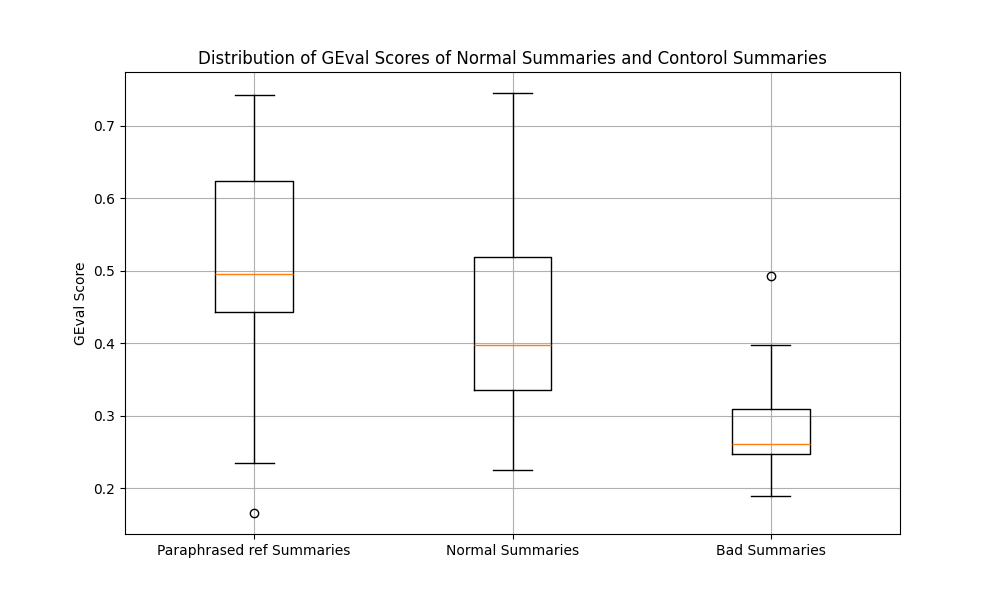
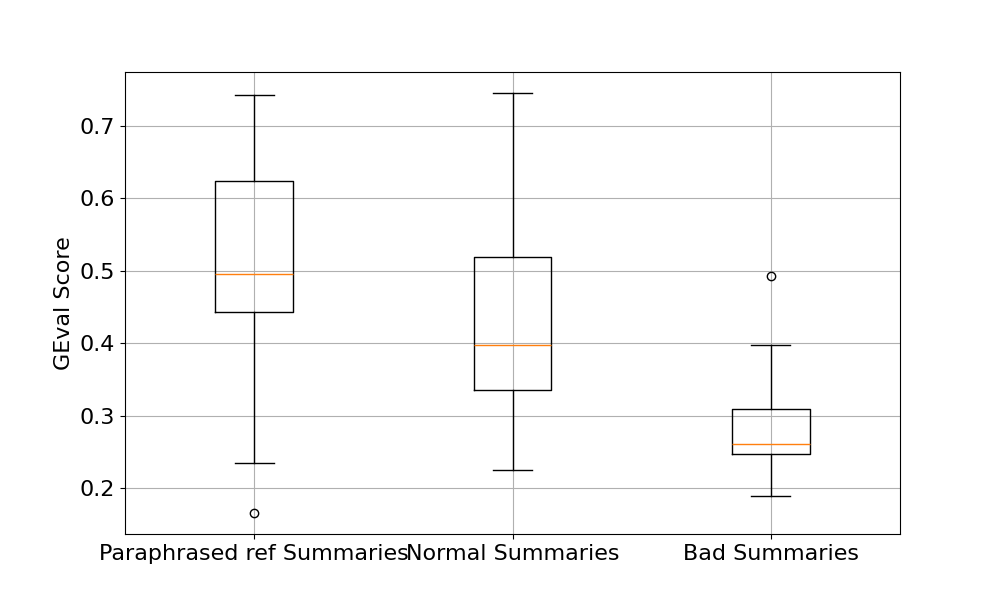
update EDA and results

diff --git a/EDA/EDA_v2.py b/EDA/EDA_v2.py
@@ -15,6 +15,7 @@ from huggingface_hub import login
 import re
 from datasets import DatasetDict
 import matplotlib.pyplot as plt
+import statistics
 
 # check toecker length of all data
 def len_article_details():
@@ -23,8 +24,12 @@ def len_article_details():
         token_lengths = [len(tokenizer(i['article'])['input_ids']) for i in dataset[split]]
         max_length = max(token_lengths)
         min_length = min(token_lengths)
+        mean_length = statistics.mean(token_lengths)
+        median_length = statistics.median(token_lengths)
         print('article max length',max_length)
         print('article min length',min_length)
+        print('Article mean length:', mean_length)
+        print('Article median length:', median_length)
         # llama3 context window 128k tokens
         # gemma2 context length of 8192 tokens
         if max_length > 128000:
@@ -41,8 +46,12 @@ def len_abstract():
         token_lengths = [len(tokenizer(i['abstract'])['input_ids']) for i in dataset[split]]
         max_length = max(token_lengths)
         min_length = min(token_lengths)
+        mean_length = statistics.mean(token_lengths)
+        median_length = statistics.median(token_lengths)
         print('abstract max length',max_length)
         print('abstract min length',min_length)
+        print('Article mean length:', mean_length)
+        print('Article median length:', median_length)
         #check very short abstracts
         short_indices = [idx for idx, length in enumerate(token_lengths) if length < 30]
         if len(short_indices) > 0:

diff --git a/EDA/evaluator_plot.py b/EDA/evaluator_plot.py
@@ -12,8 +12,10 @@ plt.boxplot(
     [df_paraphrase['BioSumm (GEval)_score'],df_normal['BioSumm (GEval)_score'], df_bad['BioSumm (GEval)_score'], ],
     labels=['Paraphrased ref Summaries','Normal Summaries', 'Bad Summaries'],
 )
-plt.ylabel('GEval Score')
-plt.title('Distribution of GEval Scores of Normal Summaries and Contorol Summaries')
+plt.ylabel('GEval Score', fontsize=14)
+plt.title('')
+plt.xticks(fontsize=14)
+plt.yticks(fontsize=14)
 plt.grid(True)
 plt.savefig('./figures/EDA/boxplot_geval_scores_evaluator_evaluation.png')
 plt.close()

diff --git a/lora/finetune_lora_llama_abstract_RAG.py b/lora/finetune_lora_llama_abstract_RAG.py
@@ -181,7 +181,6 @@ def add_chunks_field(example):
     }
 
 
-
 def retrieve_relevant_chunks(example, k=5):
     chunks = example.get("main_text_chunks", [])
     query = example.get("abstract", "")
